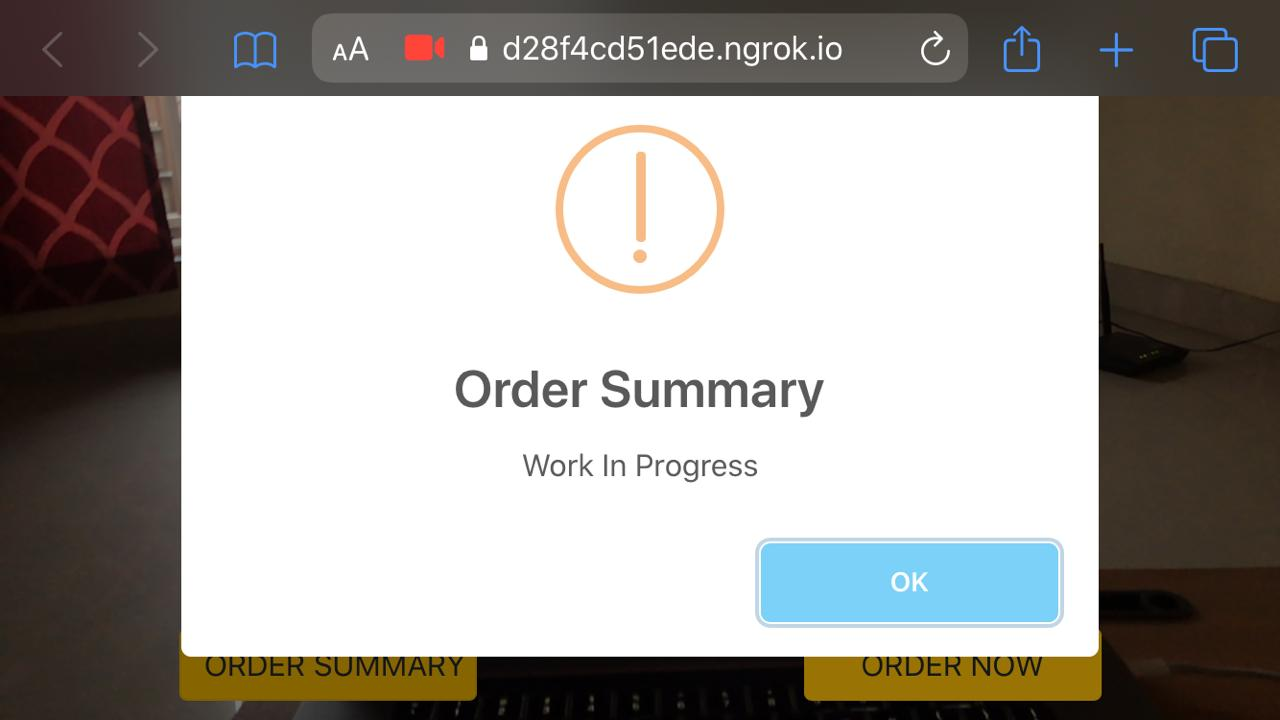
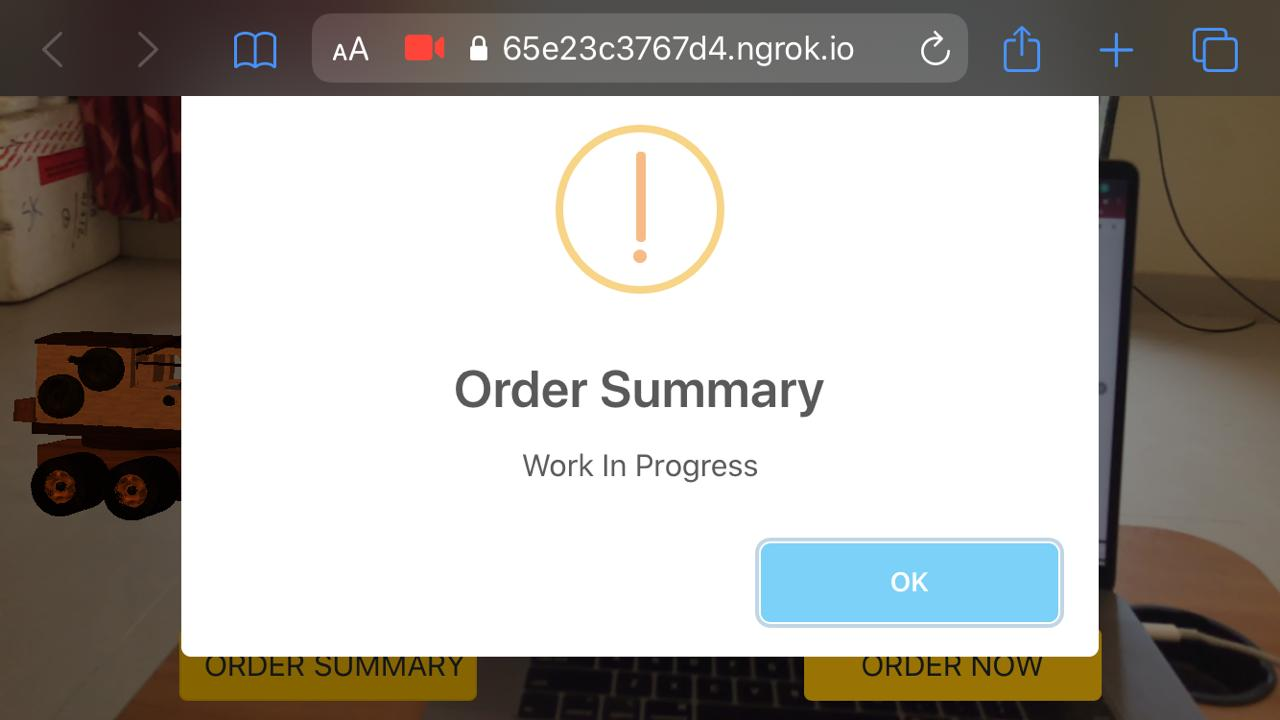
Final Output Images added

diff --git a/js/addButtons.js b/js/addButtons.js
@@ -4,13 +4,13 @@ AFRAME.registerComponent("createbuttons", {
     var button1 = document.createElement("button");
     button1.innerHTML = "ORDER NOW";
     button1.setAttribute("id", "order-button");
-    button1.setAttribute("class", "btn btn-warning ml-3 mr-3");
+    button1.setAttribute("class", "btn btn-danger ml-3 mr-3");
 
     // 2. Create the Bill button
     var button2 = document.createElement("button");
     button2.innerHTML = "ORDER SUMMARY";
     button2.setAttribute("id", "order-summary-button");
-    button2.setAttribute("class", "btn btn-warning ml-3");
+    button2.setAttribute("class", "btn btn-danger ml-3");
 
     // 3. Append somewhere
     var buttonDiv = document.getElementById("button-div");
